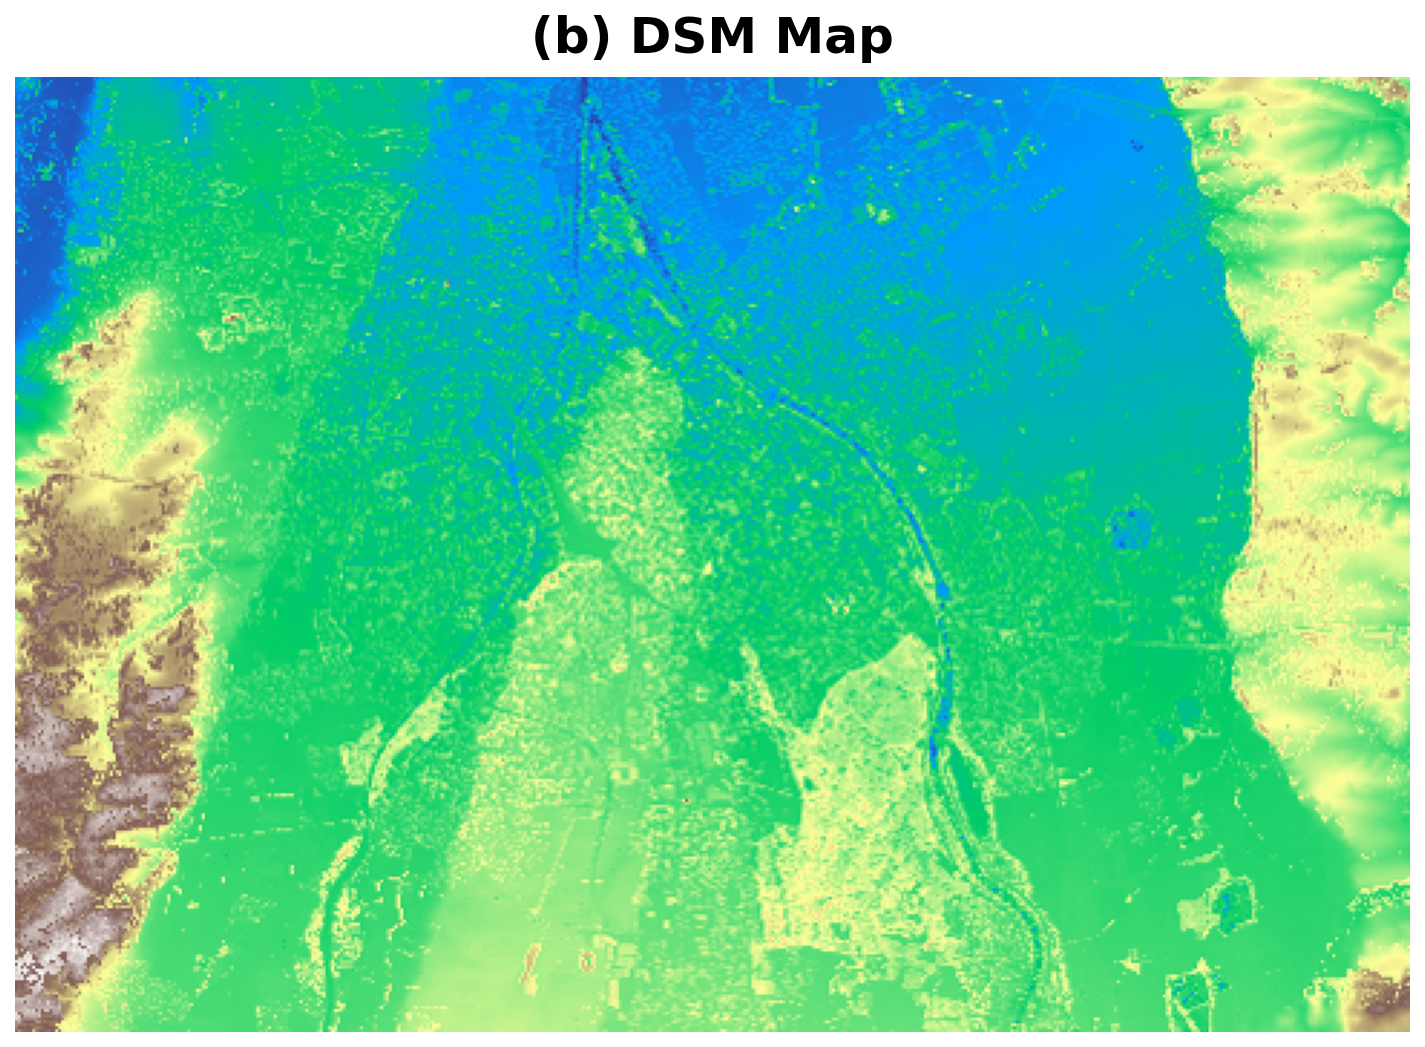
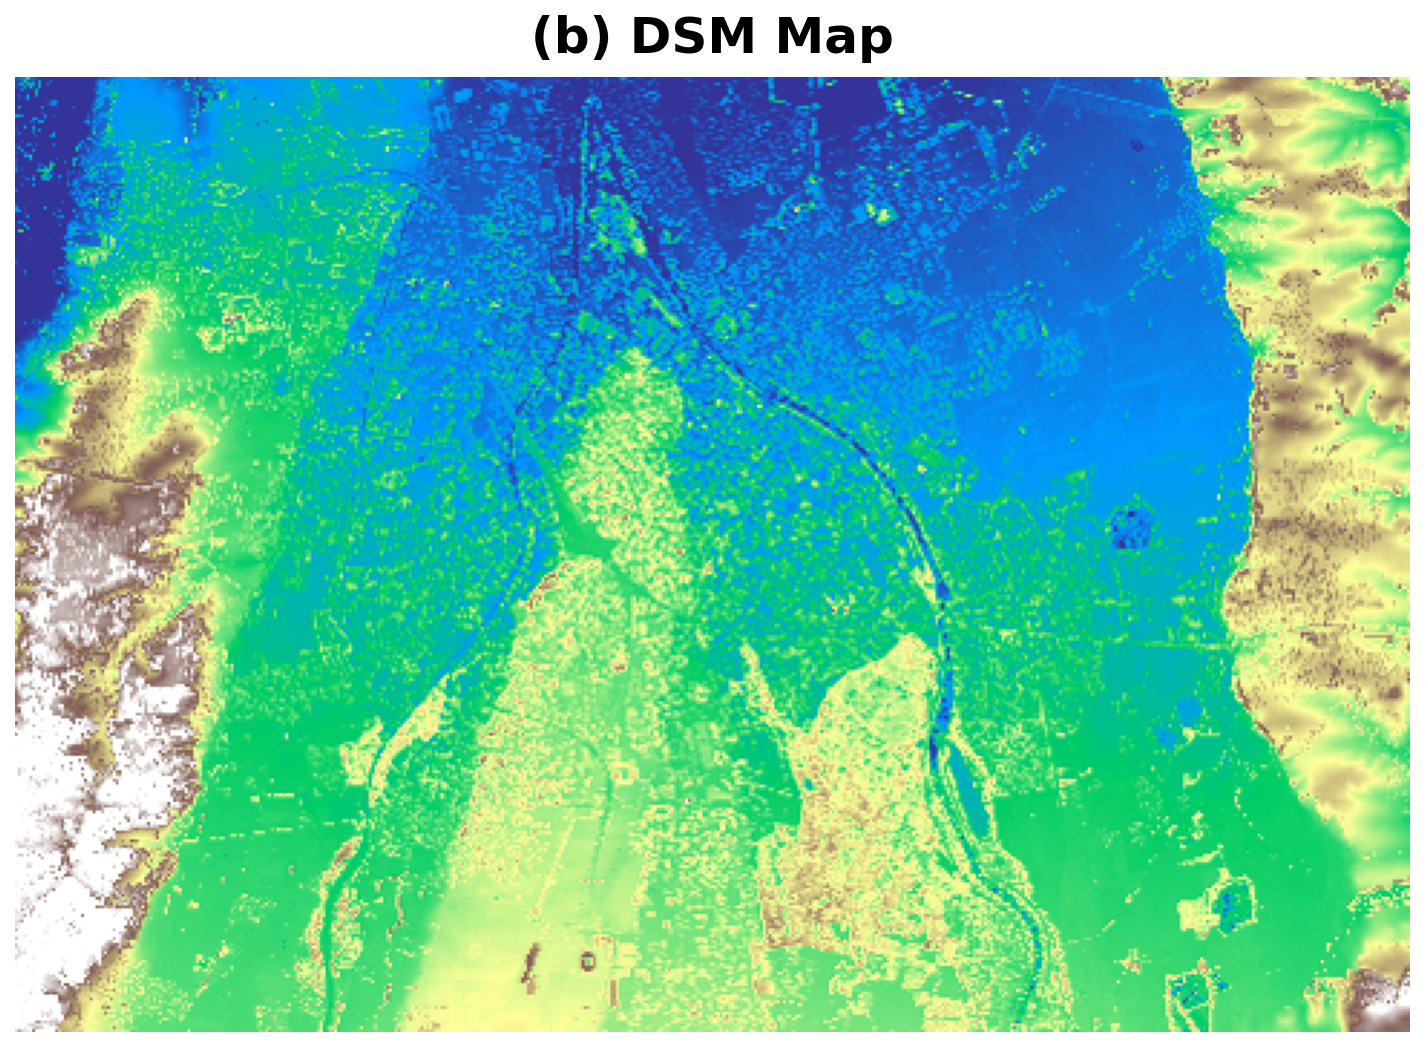
update vis images

diff --git a/visualize_datasets.py b/visualize_datasets.py
@@ -37,14 +37,29 @@ def normalize_band(band):
     return ((band - mn) / (mx - mn)).astype(np.float32)
 
 
-def make_pseudo_color(hsi, bands_rgb):
-    """Create pseudo-color RGB from HSI using specified band indices."""
-    r = normalize_band(hsi[:, :, bands_rgb[0]])
-    g = normalize_band(hsi[:, :, bands_rgb[1]])
-    b = normalize_band(hsi[:, :, bands_rgb[2]])
-    # Slight gamma for better visibility
-    gamma = 0.8
-    rgb = np.stack([r**gamma, g**gamma, b**gamma], axis=-1)
+def histogram_equalize(band):
+    """Apply histogram equalization to a single band for better contrast."""
+    # Clip outliers (2nd and 98th percentile)
+    p2, p98 = np.percentile(band[band > 0] if np.any(band > 0) else band, [2, 98])
+    band_clipped = np.clip(band, p2, p98)
+    # Normalize to [0, 1]
+    mn, mx = band_clipped.min(), band_clipped.max()
+    if mx - mn < 1e-10:
+        return np.zeros_like(band, dtype=np.float32)
+    return ((band_clipped - mn) / (mx - mn)).astype(np.float32)
+
+
+def make_pseudo_color(hsi, bands_rgb, gamma=1.0):
+    """Create pseudo-color RGB from HSI using specified band indices.
+    Applies percentile clipping + optional gamma for paper-quality rendering."""
+    r = histogram_equalize(hsi[:, :, bands_rgb[0]])
+    g = histogram_equalize(hsi[:, :, bands_rgb[1]])
+    b = histogram_equalize(hsi[:, :, bands_rgb[2]])
+    if gamma != 1.0:
+        r = np.power(r, gamma)
+        g = np.power(g, gamma)
+        b = np.power(b, gamma)
+    rgb = np.stack([r, g, b], axis=-1)
     return np.clip(rgb, 0, 1)
 
 
@@ -195,17 +210,19 @@ def visualize_augsburg():
     ]
 
     # Pseudo-color from HSI (bands ~R=80, G=40, B=10 for 180-band Augsburg)
-    pseudo_rgb = make_pseudo_color(hsi, bands_rgb=[80, 40, 10])
+    # Pseudo-color from HSI — paper Fig 7 uses bands 40, 20, 10
+    pseudo_rgb = make_pseudo_color(hsi, bands_rgb=[40, 20, 10], gamma=0.9)
 
     # SAR composite (use bands 0,1,2 as RGB)
-    sar_rgb = np.stack([normalize_band(sar[:,:,0]),
-                        normalize_band(sar[:,:,1]),
-                        normalize_band(sar[:,:,2])], axis=-1)
-    sar_rgb = np.clip(sar_rgb ** 0.6, 0, 1)  # gamma for SAR
+    # SAR composite (use bands 0,1,2 as RGB) with histogram equalization
+    sar_rgb = np.stack([histogram_equalize(sar[:,:,0]),
+                        histogram_equalize(sar[:,:,1]),
+                        histogram_equalize(sar[:,:,2])], axis=-1)
+    sar_rgb = np.clip(sar_rgb ** 0.7, 0, 1)
 
     # DSM as grayscale/terrain colormap
-    dsm_norm = normalize_band(dsm)
-    dsm_colored = plt.cm.terrain(dsm_norm)[:, :, :3]
+    # DSM as terrain colormap with equalization
+    dsm_colored = plt.cm.terrain(histogram_equalize(dsm))[:, :, :3]
 
     # Label maps
     train_map = make_label_map(train_gt, class_colors, class_names)
@@ -254,8 +271,10 @@ def visualize_houston():
     class_colors = [(0,0,0),(0,205,0),(127,255,0),(46,139,87),(0,100,0),(255,165,79),
         (0,0,255),(255,0,0),(216,191,216),(128,128,128),(255,0,255),(0,255,255),
         (255,255,0),(238,154,0),(85,26,139),(255,127,80)]
-    pseudo_rgb = make_pseudo_color(hsi, bands_rgb=[64, 43, 22])
-    lidar_colored = plt.cm.gray(normalize_band(lidar))[:, :, :3]
+    # Pseudo-color — paper Fig 4 uses bands 64, 43, 22
+    pseudo_rgb = make_pseudo_color(hsi, bands_rgb=[64, 43, 22], gamma=0.85)
+    # LiDAR as grayscale with equalization
+    lidar_colored = plt.cm.gray(histogram_equalize(lidar))[:, :, :3]
     train_map = make_label_map(train_gt, class_colors, class_names)
     train_counts = {c: int(np.sum(train_gt == c)) for c in range(len(class_names))}
     test_map = make_label_map(test_gt, class_colors, class_names) if test_gt is not None else None
@@ -360,12 +379,12 @@ def visualize_trento():
 
     print(f"  Labeled pixels: {n_labeled}, Train: {n_train}, Test: {n_labeled - n_train}")
 
-    # Pseudo-color (bands ~40, 20, 10 for 63-band Trento)
-    pseudo_rgb = make_pseudo_color(hsi, bands_rgb=[40, 20, 10])
+    # Pseudo-color — paper Fig 6 uses bands 40, 20, 10
+    pseudo_rgb = make_pseudo_color(hsi, bands_rgb=[40, 20, 10], gamma=0.85)
 
     # LiDAR as terrain colormap
-    lidar_norm = normalize_band(lidar)
-    lidar_colored = plt.cm.gray(lidar_norm)[:, :, :3]
+    # LiDAR as grayscale with equalization
+    lidar_colored = plt.cm.gray(histogram_equalize(lidar))[:, :, :3]
 
     train_map = make_label_map(train_gt, class_colors, class_names)
     test_map = make_label_map(test_gt, class_colors, class_names)
@@ -439,10 +458,8 @@ def visualize_muufl():
     print(f"  Labeled: {n_labeled}, Train: {n_train}, Test: {n_labeled - n_train}")
 
     # Pseudo-color (bands 40, 20, 10 for 64-band MUUFL)
-    pseudo_rgb = make_pseudo_color(hsi, bands_rgb=[40, 20, 10])
-
-    # LiDAR: use first channel as grayscale
-    lidar_colored = plt.cm.gray(normalize_band(lidar[:, :, 0]))[:, :, :3]
+    # Pseudo-color — paper Fig 6 uses bands 40, 20, 10
+    pseudo_rgb = make_pseudo_color(hsi, bands_rgb=[40, 20, 10], gamma=0.85)
 
     train_map = make_label_map(train_gt, class_colors, class_names)
     test_map = make_label_map(test_gt, class_colors, class_names)

diff --git a/dataset_figures/muufl/README.md b/dataset_figures/muufl/README.md
@@ -1,0 +1,24 @@
+# MUUFL Gulfport Dataset Visualization
+
+## Source Data
+- **Raw scene**: `MFT_Data/MUUFL_raw/MUUFLGulfport-0.1/` (University of Southern Mississippi)
+- **HSI**: 325 × 220 × 64 bands (ROSIS sensor, float32) — originally 72 bands, 8 removed (first/last noisy bands)
+- **LiDAR**: 325 × 220 × 2 channels (two co-registered LiDAR returns, first return elevation from each)
+- **Ground Truth**: 11 classes, from `sceneLabels` in the scene .mat file (-1 = unlabeled)
+- **Train/Test split**: Random 5% train / 95% test (seed=42), 2,684 train / 51,003 test pixels
+- **Total labeled pixels**: 53,687 out of 71,500 (24.9% unlabeled)
+
+## Pseudo-color Map
+- **Bands**: R=40, G=20, B=10 (from original MFT paper, Fig. 5 caption)
+- **Processing**: 2nd/98th percentile clipping + min-max normalization + gamma=0.85
+- Shows UH Gulfport campus with buildings, trees, roads
+
+## LiDAR Map
+- Grayscale from first LiDAR channel (first return elevation) with histogram equalization
+
+## Classes
+1. Trees, 2. Grass-Pure, 3. Grass-Ground, 4. Dirt-Sand, 5. Road, 6. Water,
+7. Shadow-Building, 8. Buildings, 9. Sidewalk, 10. Yellow-Curb, 11. Cloth-Panels
+
+## Generated by
+`mft_research/visualize_datasets.py` → `visualize_muufl()`

diff --git a/dataset_figures/augsburg_hsi+sar/README.md b/dataset_figures/augsburg_hsi+sar/README.md
@@ -1,0 +1,23 @@
+# Augsburg (HSI + SAR) Dataset Visualization
+
+## Source Data
+- **Raw scene**: `MFT_Data/HS-SAR-DSM Augsburg/` (DLR, Augsburg Germany)
+- **HSI**: 332 × 485 × 180 bands (HySpex sensor, uint16)
+- **SAR**: 332 × 485 × 4 bands (Sentinel-1, float64) — VV intensity, VH intensity, real component, imaginary component
+- **Ground Truth**: 7 classes, from `TrainImage.mat` and `TestImage.mat`
+- **Train/Test split**: Pre-defined in source files, 761 train / 77,533 test pixels
+- **Total labeled pixels**: 78,294 out of 161,020 (51.4% unlabeled background)
+
+## Pseudo-color Map
+- **Bands**: R=40, G=20, B=10 (from original MFT paper, Fig. 7 caption)
+- **Processing**: 2nd/98th percentile clipping + min-max normalization + gamma=0.9
+- Appears as false-color (red = vegetation, cyan = urban)
+
+## SAR Map
+- RGB composite from SAR bands 0, 1, 2 with histogram equalization + gamma=0.7
+
+## Classes
+1. Forest, 2. Residential, 3. Industrial, 4. Low Plants, 5. Allotment, 6. Commercial, 7. Water
+
+## Generated by
+`mft_research/visualize_datasets.py` → `visualize_augsburg()`

diff --git a/dataset_figures/augsburg_hsi+dsm/README.md b/dataset_figures/augsburg_hsi+dsm/README.md
@@ -1,0 +1,23 @@
+# Augsburg (HSI + DSM) Dataset Visualization
+
+## Source Data
+- **Raw scene**: `MFT_Data/HS-SAR-DSM Augsburg/` (DLR, Augsburg Germany)
+- **HSI**: 332 × 485 × 180 bands (HySpex sensor, uint16) — same HSI as HSI+SAR variant
+- **DSM**: 332 × 485 (Digital Surface Model from DAS-EOC, float64)
+- **Ground Truth**: 7 classes, from `TrainImage.mat` and `TestImage.mat` — same split as HSI+SAR
+- **Train/Test split**: Pre-defined, 761 train / 77,533 test pixels
+
+## Pseudo-color Map
+- **Bands**: R=40, G=20, B=10 (from original MFT paper, Fig. 7 caption)
+- **Processing**: 2nd/98th percentile clipping + min-max normalization + gamma=0.9
+- Same as HSI+SAR (identical HSI source)
+
+## DSM Map
+- Terrain colormap (`plt.cm.terrain`) with histogram equalization
+- Shows elevation: green = low, brown = high, white = highest
+
+## Classes
+1. Forest, 2. Residential, 3. Industrial, 4. Low Plants, 5. Allotment, 6. Commercial, 7. Water
+
+## Generated by
+`mft_research/visualize_datasets.py` → `visualize_augsburg()`

diff --git a/dataset_figures/trento/README.md b/dataset_figures/trento/README.md
@@ -1,0 +1,23 @@
+# Trento Dataset Visualization
+
+## Source Data
+- **Raw scene**: `TrentoDateset/TrentoDataset/` (University of Trento)
+- **HSI**: 166 × 600 × 63 bands (AISA Eagle sensor, float32)
+- **LiDAR**: 166 × 600 (elevation, float32)
+- **Ground Truth**: 6 classes, from `GT_Trento.mat` (scene-level labels)
+- **Train/Test split**: Random 5% train / 95% test (seed=42), 1,510 train / 28,704 test pixels
+- **Total labeled pixels**: 30,214 out of 99,600 (69.7% unlabeled background)
+
+## Pseudo-color Map
+- **Bands**: R=40, G=20, B=10 (from original MFT paper, Fig. 6 caption)
+- **Processing**: 2nd/98th percentile clipping + min-max normalization + gamma=0.85
+- Appears as classic false-color infrared (red = vegetation)
+
+## LiDAR Map
+- Grayscale colormap with histogram equalization
+
+## Classes
+1. Apples, 2. Buildings, 3. Ground, 4. Woods, 5. Vineyard, 6. Roads
+
+## Generated by
+`mft_research/visualize_datasets.py` → `visualize_trento()`

diff --git a/dataset_figures/houston/README.md b/dataset_figures/houston/README.md
@@ -1,0 +1,22 @@
+# Houston 2013 Dataset Visualization
+
+## Source Data
+- **Raw scene**: `MFT_Data/Houston_raw/2013_DFTC/` (IEEE GRSS 2013 Data Fusion Contest)
+- **HSI**: 349 × 1905 × 144 bands (CASI sensor, uint16), read from GeoTIFF with strip offset parsing
+- **LiDAR**: 349 × 1905 (DSM, float32), read from GeoTIFF via PIL
+- **Ground Truth**: 15 classes, parsed from ENVI ROI text files (train: 2,832 pixels, test: 12,197 pixels)
+- **Train/Test split**: Disjoint fixed split from the contest (not random)
+
+## Pseudo-color Map
+- **Bands**: R=64, G=43, B=22 (from original MFT paper, Fig. 4 caption)
+- **Processing**: 2nd/98th percentile clipping + min-max normalization + gamma=0.85
+
+## LiDAR DSM Map
+- Grayscale colormap with histogram equalization
+
+## Training / Test Samples
+- Colored pixels on black background, one color per class
+- 15 land-cover classes
+
+## Generated by
+`mft_research/visualize_datasets.py` → `visualize_houston()`
